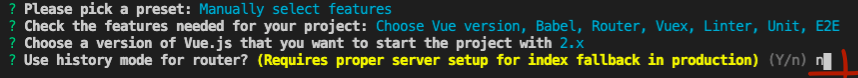
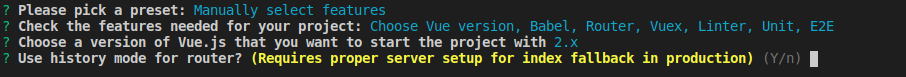
docs(01-cli): 1 audited

diff --git a/docs/01-vue-cli-install.md b/docs/01-vue-cli-install.md
@@ -1,4 +1,4 @@
-# Creando un proyecto Vue y agregar Vuetify
+# Creando un proyecto usando CLI y framework UI
   Comenzaremos creando un proyecto a través de la línea de comandas de Vue. Para ello la instalaremos de  utilizando el siguiente comando
 
 ```bash
@@ -21,32 +21,37 @@ Deberemos contestar una serie de preguntas. Veamos en detalle que responderemos 
 3) Elegiremos la versión 2 de Vue
 ![Imagen de paso 3 de instalación](images/01-vue-cli-install-03.png?raw=true)
 
-4) Seleccionar `NO` para no configurar History mode debido a que publicaremos esta aplicación de otra manera y no necesitamos la configuración para el servidor. Más detalles en [este link](https://router.vuejs.org/guide/essentials/history-mode.html#html5-history-mode)
+4) Seleccionar `Y` para configurar History mode y posteriormente haremos la configuración requerida para el servidor en Express. Más detalles en [este link](https://router.vuejs.org/guide/essentials/history-mode.html#html5-history-mode)
 ![Imagen de paso 4 de instalación](images/01-vue-cli-install-04.png?raw=true)
 
-5) Utilizaremos la configuración de Javascript estándar para la herramienta [ESLint](https://eslint.org/). Si quieres conocer más detalles sobre este estándar puedes visitar [este link](https://standardjs.com/)
+5) Utilizaremos la configuración de Javascript estándar para la herramienta [ESLint](https://eslint.org/). Si quieres conocer más detalles sobre este estándar puedes visitar [este link](https://standardjs.com/)  
 ![Imagen de paso 5 de instalación](images/01-vue-cli-install-05.png?raw=true)
 
-6) Utilizaremos [Jest](https://jestjs.io/) para crear pruebas de integración en el proyecto.
+6) Seleciona lint on save ![Lint on save](images/01-vue-cli-install-05-b.png?raw=true)
+
+7) Utilizaremos [Jest](https://jestjs.io/) para crear pruebas de integración en el proyecto.
 ![Imagen de paso 6 de instalación](images/01-vue-cli-install-06.png?raw=true)
 
-7) Utilizaremos [Cypress](https://www.cypress.io/) para crear pruebas e2e.
+8) Utilizaremos [Cypress](https://www.cypress.io/) para crear pruebas e2e.
 ![Imagen de paso 7 de instalación](images/01-vue-cli-install-07.png?raw=true)
 
-8) Seleccionaremos la opción que nos permite que las configuraciones de las herramientas de desarrollo como `ESLint` tenga su propio archivo de configuración
+9) Seleccionaremos la opción que nos permite que las configuraciones de las herramientas de desarrollo como `ESLint` tenga su propio archivo de configuración
 ![Imagen de paso 8 de instalación](images/01-vue-cli-install-08.png?raw=true)
 
-9) Finalmente seleccionaremos la opción `NO` porque de momento no necesitaremos compartir toda esta configuración que acabamos de crear.
+10) Finalmente damos enter para utilizar la opción por defecto (por convención es la opción en mayúsculas)
 ![Imagen de paso 9 de instalación](images/01-vue-cli-install-09.png?raw=true)
 
-Con esto comenzará la instalación y se generará todo el código inicial para que podamos comenzar con todo lo necesario para construir nuestra aplicación Frontend.
+Esto creará una carpeta con la estructura inicial y todo lo necesario para construir nuestra aplicación Frontend.
 
-Una vez terminada la instalación en primer lugar navegaremos al repositorio recién creado y agregaremos [Vuetify](https://vuetifyjs.com/) utilizando el siguiente comando:
+Una vez terminada la instalación partimos navegando al repositorio recién creado y agregaremos [Vuetify](https://vuetifyjs.com/) (durante el proceso de instalación  vue-cli hizo `git init` por nosotros)  utilizando el siguiente comando:
 
 ```bash
 vue add vuetify
 ```
-Nos preguntará si queremos seleccionar algun tipo de configuración. Seleccionaremos la opción predeterminada como muestra la siguiente imagen:
+
+Vuetify es una de las tantas (Buefy, Element, Bootstrap Vue) librería de componentes UI de alta productividad para Vue.
+
+Nos preguntará si queremos seleccionar algún tipo de configuración. Seleccionaremos la opción predeterminada como muestra la siguiente imagen:
 
 ![Imagen de paso 10 de instalación](images/01-vue-cli-install-10.png?raw=true)
 

diff --git a/README.md b/README.md
@@ -5,13 +5,14 @@
 
 ![example workflow](https://github.com/sbstn-jmnz/boolean-fullstack-js-app/actions/workflows/pipeline.yml/badge.svg)
 
-Vamos a construir la base de una plataforma de trueques a través del lenguaje Javacript. Para ello utilizaremos el framework VueJS para, a través de la metología BDD, construir una página de autenticación que nos permitirá acceder a un catálogo de productos.
-La autenticación será soportada por la plataforma Firebase y la página será publicada a través de Heroku utilizando su registro de Imagenes Docker en la cual montaremos un servidor que construiremos utlizando NodeJS y la librería Express.
+Vamos a construir la base de una plataforma de trueques utilizando Javascript. Seguiremos la metodología BDD para implementar una historia de usuario. Utilizaremos el framework VueJS para construir una vista de ingreso (*login*) que nos permitirá acceder a un catálogo de instrumentos musicales disponibles para trueques.
 
-Mano a la obra!
+La autenticación será soportada por la plataforma Firebase y la aplicación será publicada utilizando el registro de imágenes Docker en Heroku, en la cual montaremos un servidor que construiremos utilizando NodeJS y la librería Express.
 
-Indice:
-  - [Creando un proyecto Vue y agregar Vuetify](docs/01-vue-cli-install.md)
+Manos a la obra!
+
+Índice:
+  - [Creando un proyecto usando CLI y framework UI](docs/01-vue-cli-install.md)
   - [Escribiendo Pruebas E2E siguiendo la metodología BDD](docs/02-bdd-with-cypress.md)
   - [Reorganización del proyecto como monorepo y agregar Backend](docs/03-monorepo-backend.md)
   - [Autenticación de peticiones al Backend con firebase](docs/04-firebase-sdk-backend.md)
@@ -19,3 +20,7 @@ Indice:
   - [Pruebas de software para Backend y Frontend](docs/06-testing-frontend-backend.md)
   - [Configuración de mantenimiento de calidad con Husky](docs/07-development-workflow-husky.md)
   - [Salida a producción utilizando Postgres y Heroku](docs/08-deployment-postgres.md)
+
+
+Tener un prólogo que explique el contexto del proyecto con el material del curso y cómo está enfocado en aplicar los conocimientos del curso más la metodología de desarrollo ágil en un proyecto digital utilizando javascript en todo el stack.
+
